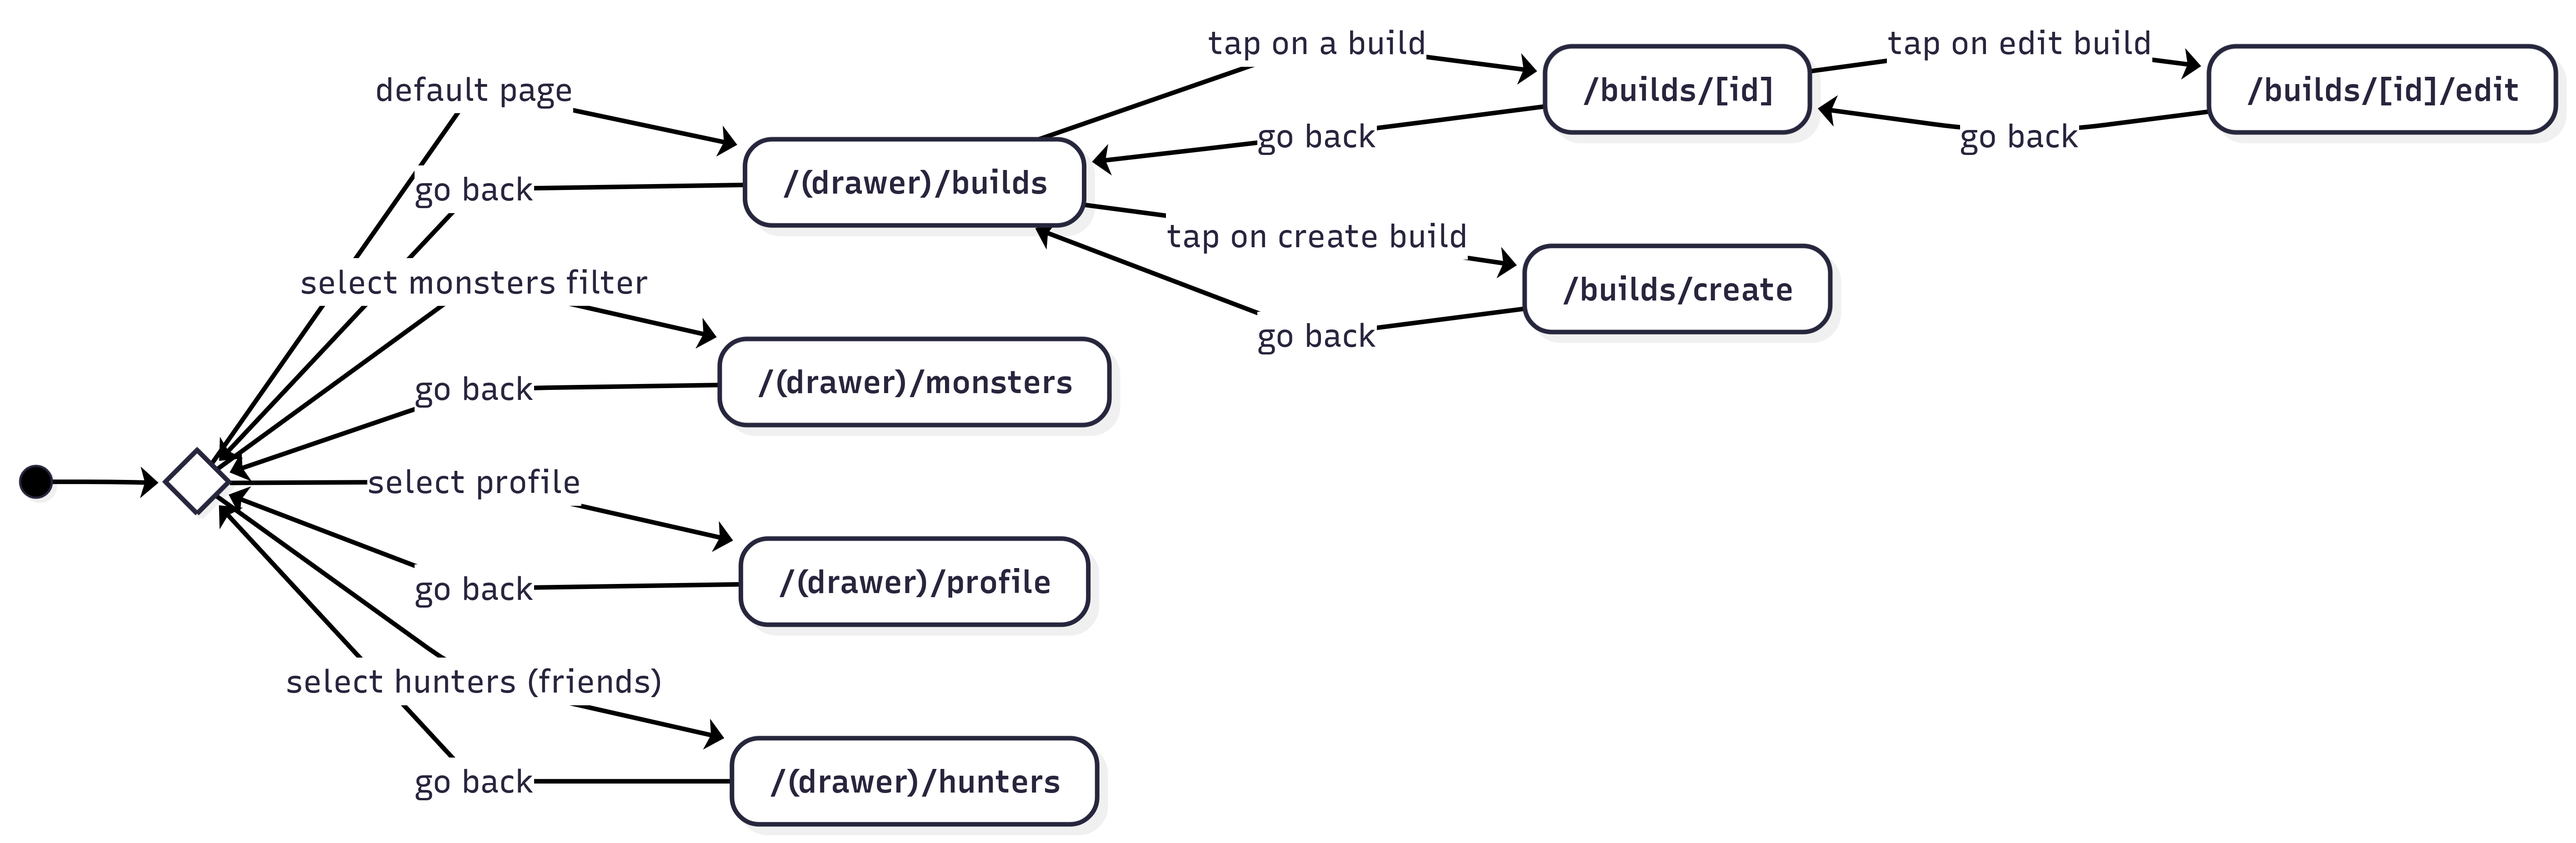
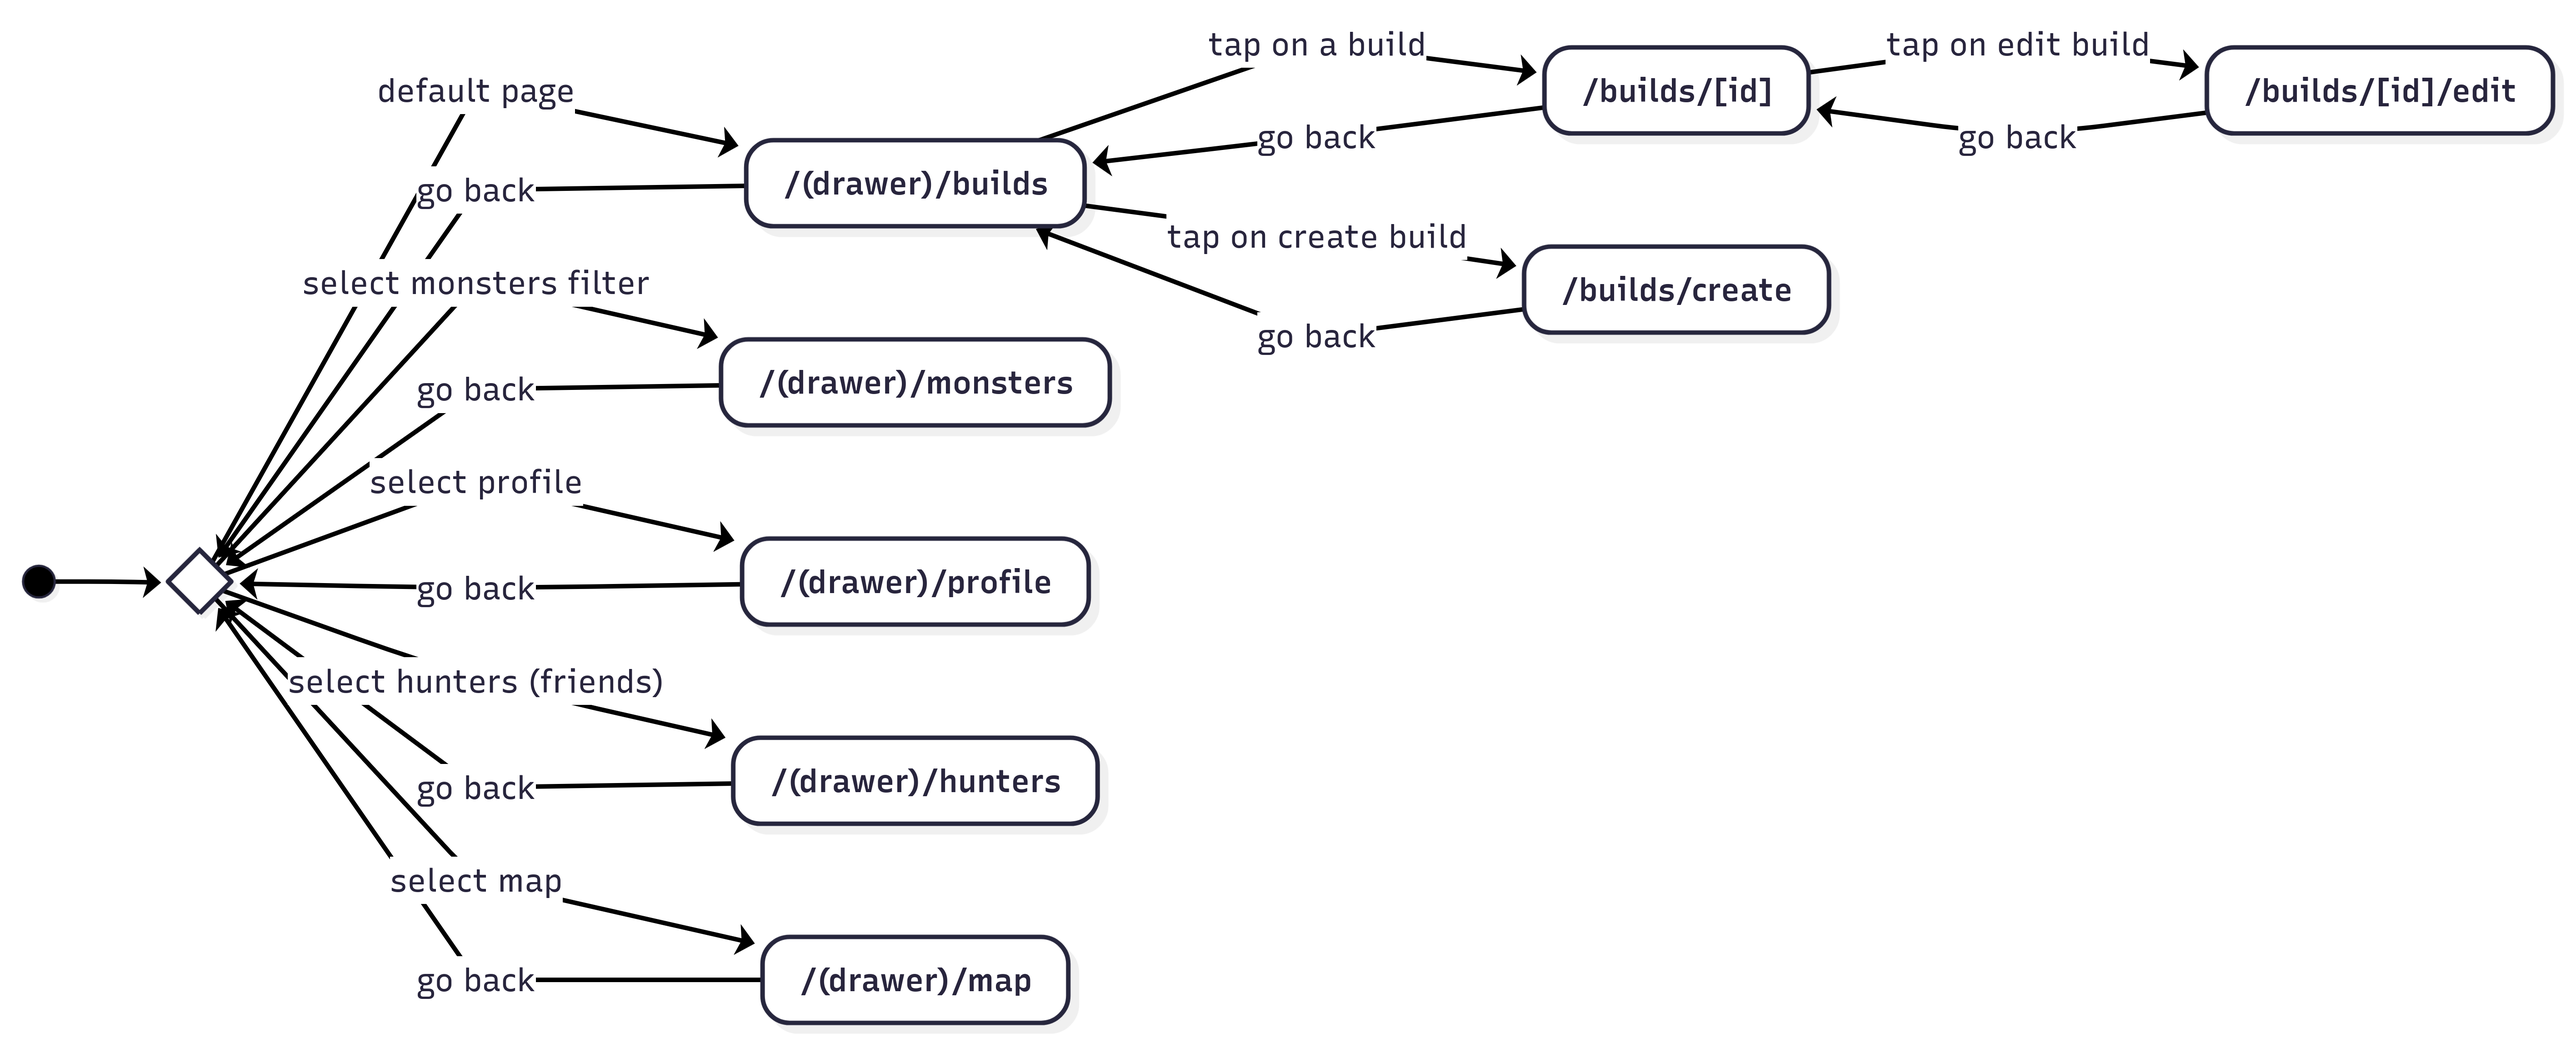
Updated README

Changed region(s): [[0.0, 0.0307, 0.9995, 0.9833], [0.2499, 0.4916, 0.4373, 0.5224], [0.4685, 0.0307, 0.5622, 0.0922]]

diff --git a/README.md b/README.md
@@ -60,7 +60,7 @@ Sorting:
 
 ##### Item level
 
-/builds/[id] -> Todo detail (dynamic route)
+/builds/[id] -> build detail (dynamic route)
 
 /builds/[id]/edit -> Edit screen (dynamic route)
 
